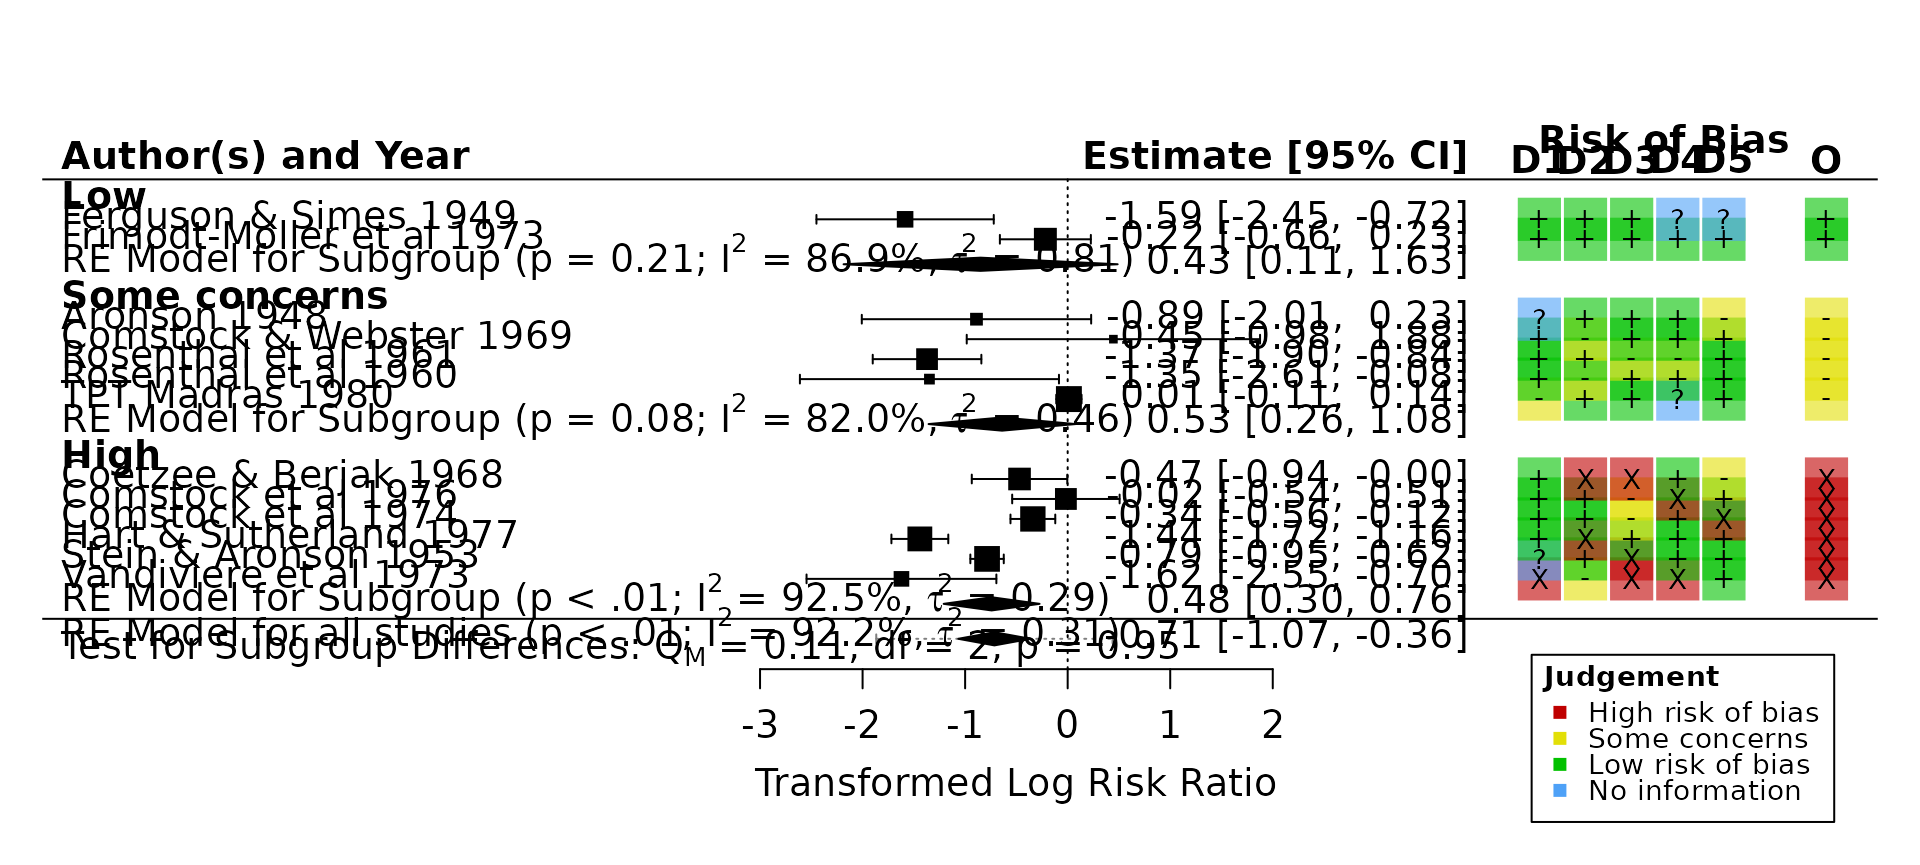
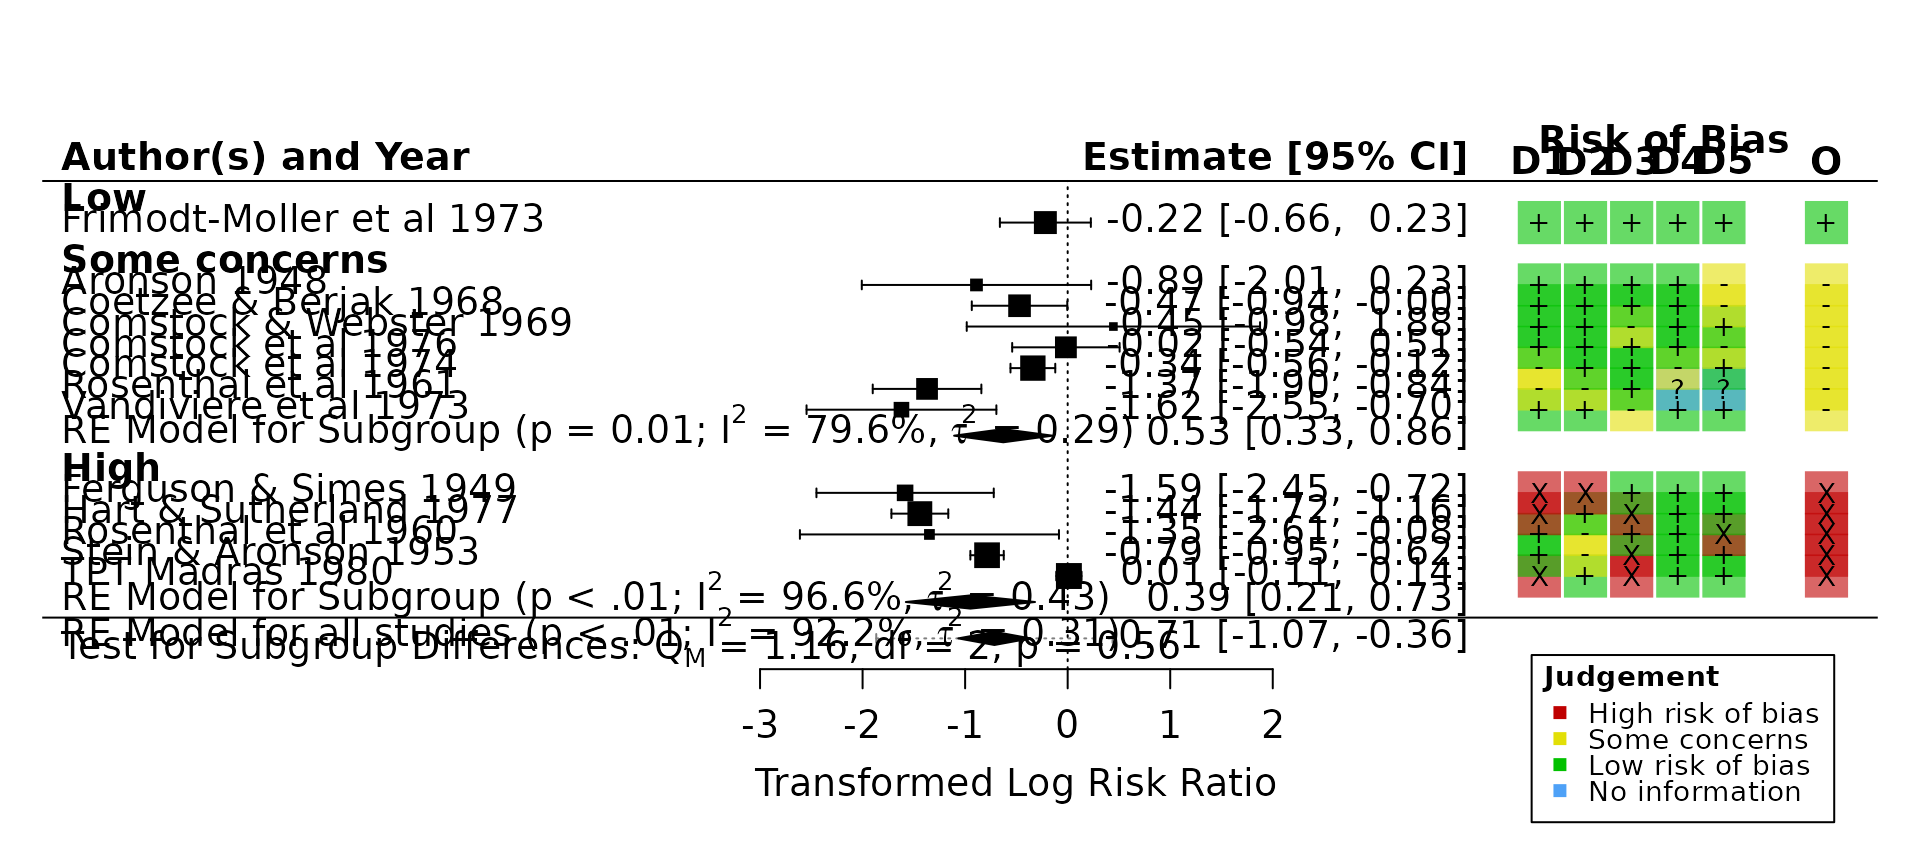
Deploying to gh-pages from @ mcguinlu/robvis@01289b1f3841f79397fdd647d1602ba76610f010 🚀

Changed region(s): [[0.0312, 0.1561, 0.9688, 0.7491], [0.8125, 0.8116, 0.9375, 0.9364], [0.9375, 0.437, 0.9688, 0.4994]]

diff --git a/articles/metafor.html b/articles/metafor.html
@@ -100,7 +100,7 @@
                         <h4 data-toc-skip class="author">Luke A
 McGuinness</h4>
             
-            <h4 data-toc-skip class="date">2023-06-07</h4>
+            <h4 data-toc-skip class="date">2023-06-08</h4>
       
       <small class="dont-index">Source: <a href="https://github.com/mcguinlu/robvis/blob/HEAD/vignettes/articles/metafor.Rmd" class="external-link"><code>vignettes/articles/metafor.Rmd</code></a></small>
       <div class="hidden name"><code>metafor.Rmd</code></div>
@@ -156,12 +156,12 @@ package</a>.</p>
 <span><span class="co">#&gt; $ cneg    <span style="color: #949494; font-style: italic;">&lt;int&gt;</span> 128, 274, 209, 12619, 5761, 1079, 619, 87892, 7232, 1600, 2719…</span></span>
 <span><span class="co">#&gt; $ ablat   <span style="color: #949494; font-style: italic;">&lt;int&gt;</span> 44, 55, 42, 52, 13, 44, 19, 13, 27, 42, 18, 33, 33</span></span>
 <span><span class="co">#&gt; $ alloc   <span style="color: #949494; font-style: italic;">&lt;chr&gt;</span> "random", "random", "random", "random", "alternate", "alternat…</span></span>
-<span><span class="co">#&gt; $ D1      <span style="color: #949494; font-style: italic;">&lt;chr&gt;</span> "No information", "Low", "Low", "Low", "Low", "No information"…</span></span>
-<span><span class="co">#&gt; $ D2      <span style="color: #949494; font-style: italic;">&lt;chr&gt;</span> "Low", "Low", "Some concerns", "High", "Low", "Low", "Some con…</span></span>
-<span><span class="co">#&gt; $ D3      <span style="color: #949494; font-style: italic;">&lt;chr&gt;</span> "Low", "Low", "Low", "Low", "Low", "High", "High", "Low", "Hig…</span></span>
-<span><span class="co">#&gt; $ D4      <span style="color: #949494; font-style: italic;">&lt;chr&gt;</span> "Low", "No information", "Low", "Low", "Low", "Low", "High", "…</span></span>
-<span><span class="co">#&gt; $ D5      <span style="color: #949494; font-style: italic;">&lt;chr&gt;</span> "Some concerns", "No information", "Low", "Low", "Low", "Low",…</span></span>
-<span><span class="co">#&gt; $ Overall <span style="color: #949494; font-style: italic;">&lt;chr&gt;</span> "Some concerns", "Low", "Some concerns", "High", "Low", "High"…</span></span></code></pre></div>
+<span><span class="co">#&gt; $ D1      <span style="color: #949494; font-style: italic;">&lt;chr&gt;</span> "Low", "High", "Low", "High", "Low", "Low", "Low", "High", "Lo…</span></span>
+<span><span class="co">#&gt; $ D2      <span style="color: #949494; font-style: italic;">&lt;chr&gt;</span> "Low", "High", "Some concerns", "Low", "Low", "Some concerns",…</span></span>
+<span><span class="co">#&gt; $ D3      <span style="color: #949494; font-style: italic;">&lt;chr&gt;</span> "Low", "Low", "Low", "High", "Low", "High", "Some concerns", "…</span></span>
+<span><span class="co">#&gt; $ D4      <span style="color: #949494; font-style: italic;">&lt;chr&gt;</span> "Low", "Low", "Low", "Low", "Low", "Low", "Low", "Low", "Low",…</span></span>
+<span><span class="co">#&gt; $ D5      <span style="color: #949494; font-style: italic;">&lt;chr&gt;</span> "Some concerns", "Low", "High", "Low", "Low", "Low", "Low", "L…</span></span>
+<span><span class="co">#&gt; $ Overall <span style="color: #949494; font-style: italic;">&lt;chr&gt;</span> "Some concerns", "High", "High", "High", "Low", "High", "Some …</span></span></code></pre></div>
 <p>Now each row in the dataset contains a single numerical result and
 it’s corresponding risk-of-bias assessment.</p>
 <div class="section level2">

diff --git a/articles/Introduction_to_robvis.html b/articles/Introduction_to_robvis.html
@@ -101,7 +101,7 @@ visualization tool for risk-of-bias assessments</h1>
                         <h4 data-toc-skip class="author">Luke A
 McGuinness</h4>
             
-            <h4 data-toc-skip class="date">2023-06-07</h4>
+            <h4 data-toc-skip class="date">2023-06-08</h4>
       
       <small class="dont-index">Source: <a href="https://github.com/mcguinlu/robvis/blob/HEAD/vignettes/Introduction_to_robvis.Rmd" class="external-link"><code>vignettes/Introduction_to_robvis.Rmd</code></a></small>
       <div class="hidden name"><code>Introduction_to_robvis.Rmd</code></div>
